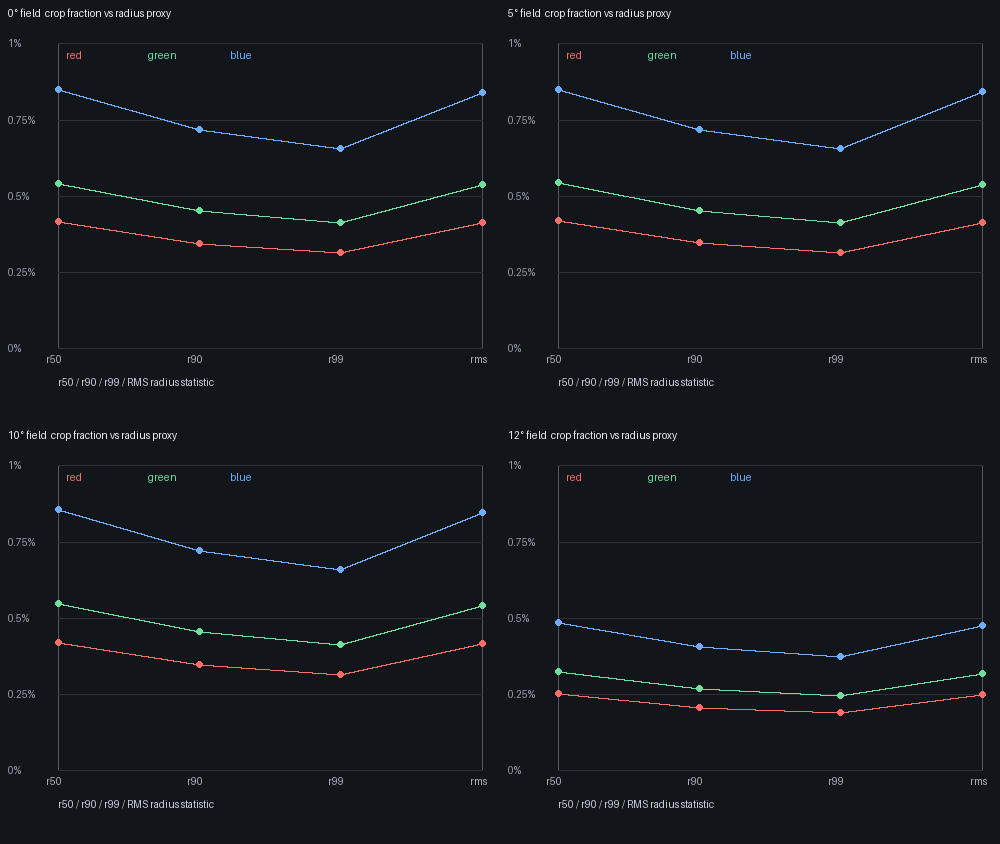
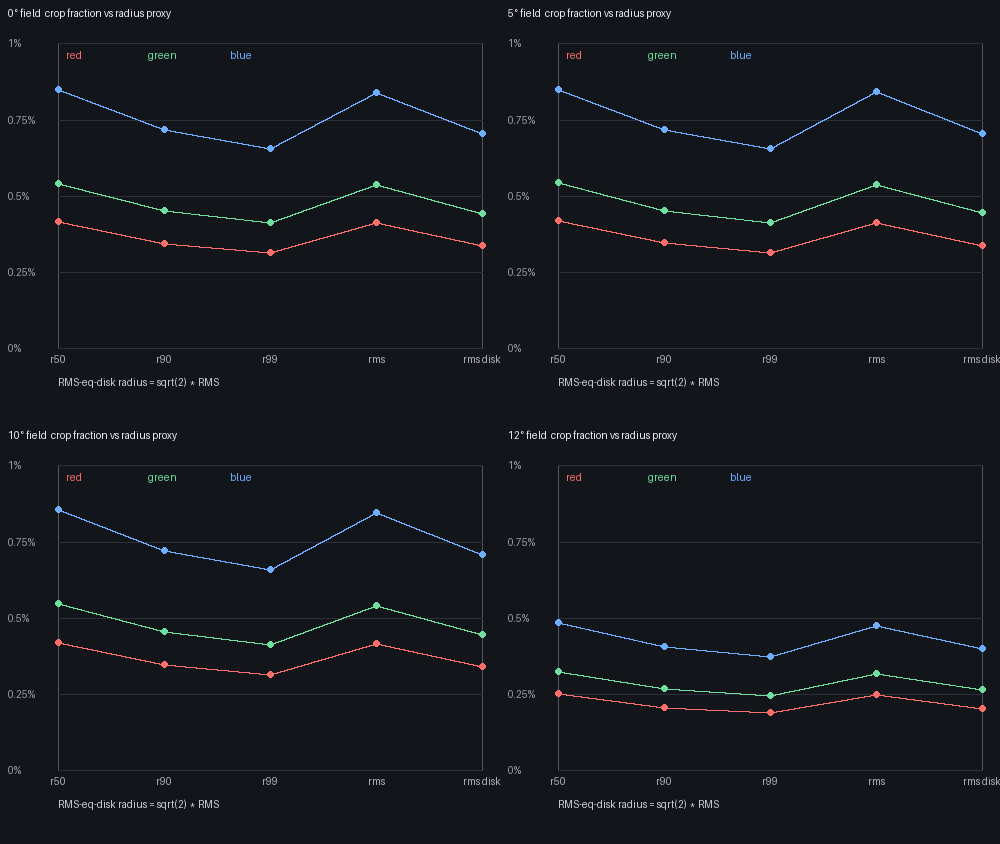
feat LensFlareLab compare RMS-equivalent scatter radius

diff --git a/tools/LensFlareLab/evaluate_scatter_radius_proxy_sensitivity.py b/tools/LensFlareLab/evaluate_scatter_radius_proxy_sensitivity.py
@@ -1,8 +1,8 @@
 """Measure how the cone-radius proxy changes prescription-scatter predictions.
 
-Reads the per-surface ray-trace CSV and compares r50, r90, r99 and RMS radii
-in Peterson Eq. 8. These are sensitivity cases, not four equally validated
-physical interpretations of the model parameter.
+Reads the per-surface ray-trace CSV and compares r50, r90, r99, RMS, and the
+equal-area disk radius derived from RMS in Peterson Eq. 8. These are sensitivity
+cases, not equally validated physical interpretations of the model parameter.
 """
 
 import argparse
@@ -18,7 +18,8 @@ from evaluate_harvey_spectral_scaling import RGB_BANDS
 from evaluate_prescription_spectral_surface_scatter import render_band
 
 
-PROXIES = (("r50", 2), ("r90", 3), ("r99", 4), ("rms", 5))
+PROXIES = (("r50", 2, 1.0), ("r90", 3, 1.0), ("r99", 4, 1.0),
+           ("rms", 5, 1.0), ("rms-eq-disk", 5, math.sqrt(2.0)))
 COLORS = ((255, 110, 104), (111, 223, 160), (110, 174, 255))
 
 
@@ -70,10 +71,10 @@ def evaluate(input_csv):
         ratio = case["wavelength_nm"] / case["reference_nm"]
         b_ref = case["b"] * ratio ** (4.0 + case["slope"])
         l_ref_mrad = case["l_mrad"] / ratio
-        for proxy, radius_index in PROXIES:
+        for proxy, radius_index, radius_scale in PROXIES:
             result = render_band(case, case["wavelength_nm"], case["slope"],
                 b_ref, l_ref_mrad, case["reference_nm"], case["transmission"],
-                case["na"], rho, pixel_area, radius_index)
+                case["na"], rho, pixel_area, radius_index, radius_scale)
             values.append({"field": field, "channel": channel,
                 "wavelength_nm": case["wavelength_nm"], "proxy": proxy,
                 "accepted": case["accepted"], "launched": case["launched"],
@@ -91,7 +92,7 @@ def make_chart(path, fields, rows):
     left, right, top, bottom = 58, panel_w - 18, 43, panel_h - 42
     ymax = max(r["crop_fraction"] * 100 for r in rows)
     ymax = max(.5, math.ceil(ymax * 2.0) / 2.0)
-    proxies = [name for name, _ in PROXIES]
+    proxies = [name for name, _, _ in PROXIES]
     for index, field in enumerate(fields):
         x0 = (index % 2) * panel_w
         y0 = (index // 2) * (panel_h + header)
@@ -118,15 +119,19 @@ def make_chart(path, fields, rows):
                              fill=COLORS[channel_index])
             if len(points) > 1:
                 draw.line(points, fill=COLORS[channel_index], width=2)
+        labels = {"rms-eq-disk": "rms disk"}
         for proxy_index, proxy in enumerate(proxies):
             x = plot[0] + int(proxy_index / (len(proxies) - 1) *
                               (plot[2] - plot[0]))
-            draw.text((x - 12, plot[3] + 5), proxy, fill=(170, 177, 188))
+            label = labels.get(proxy, proxy)
+            bounds = draw.textbbox((0, 0), label)
+            draw.text((x - (bounds[2] - bounds[0]) / 2, plot[3] + 5),
+                      label, fill=(170, 177, 188))
         for channel_index, (channel, _) in enumerate(RGB_BANDS):
             draw.text((plot[0] + 8 + channel_index * 82, plot[1] + 6),
                       channel, fill=COLORS[channel_index])
         draw.text((plot[0], y0 + panel_h - 14),
-                  "r50 / r90 / r99 / RMS radius statistic",
+                  "RMS-eq-disk radius = sqrt(2) * RMS",
                   fill=(200, 207, 218))
     path.parent.mkdir(parents=True, exist_ok=True)
     canvas.save(path)
@@ -146,6 +151,7 @@ def main():
     with args.csv.open("w", newline="", encoding="utf-8") as handle:
         writer = csv.writer(handle)
         writer.writerow(("field_deg", "channel", "wavelength_nm", "radius_proxy",
+            "radius_scale",
             "accepted_rays", "launched_rays", "entrance_radius_mm",
             "crop_fraction", "crop_percent", "delta_percent_vs_r90",
             "top_surface_index", "top_surface_crop_share_percent"))
@@ -157,7 +163,9 @@ def main():
             top_share = (row["surface_contributions"][top_index] /
                          max(row["crop_fraction"], 1e-300) * 100.0)
             writer.writerow((row["field"], row["channel"], row["wavelength_nm"],
-                row["proxy"], row["accepted"], row["launched"],
+                row["proxy"], next(scale for name, _, scale in PROXIES
+                                    if name == row["proxy"]),
+                row["accepted"], row["launched"],
                 f"{row['entrance_radius_mm']:.12g}",
                 f"{row['crop_fraction']:.12g}",
                 f"{row['crop_fraction']*100:.9g}",
@@ -175,7 +183,7 @@ def main():
                 for row in rows if row["field"] == field and row["channel"] == channel}
             print(f"field={field:g} {channel}: " + " ".join(
                 f"{proxy}={by_proxy[proxy]*100:.4f}%/surf{top_by_proxy[proxy]}"
-                for proxy, _ in PROXIES))
+                for proxy, _, _ in PROXIES))
     print(f"wrote {args.csv} and {args.image}; source grid={prototype['grid']}²")
     print("Radius-statistic cases are sensitivity bounds, not calibrated cone-radius choices.")
 

diff --git a/tools/LensFlareLab/evaluate_prescription_spectral_surface_scatter.py b/tools/LensFlareLab/evaluate_prescription_spectral_surface_scatter.py
@@ -32,19 +32,19 @@ def scale_parameters(wavelength_nm, reference_nm, slope, b_ref, l_ref_mrad):
 
 def render_band(case, wavelength_nm, slope, b_ref, l_ref_mrad,
                 reference_nm, transmission, na, rho, pixel_area_mm2,
-                radius_index=3):
+                radius_index=3, radius_scale=1.0):
     b, l_mrad = scale_parameters(wavelength_nm, reference_nm, slope,
                                  b_ref, l_ref_mrad)
     l_rad = l_mrad * 1e-3
     b0 = b * (100.0 * l_rad) ** slope
     rows = case["rows"]
-    entrance_radius = rows[0][radius_index]
+    entrance_radius = rows[0][radius_index] * radius_scale
     accepted_fraction = case["accepted"] / case["launched"]
     field_transmission = transmission * accepted_fraction
     image = np.zeros_like(rho)
     surface_contributions = []
     for row in rows:
-        a_j = row[radius_index]
+        a_j = row[radius_index] * radius_scale
         if not math.isfinite(a_j) or a_j <= 1e-8 or not math.isfinite(entrance_radius):
             surface_contributions.append(0.0)
             continue

diff --git a/tools/LensFlareLab/EVALUATION.md b/tools/LensFlareLab/EVALUATION.md
@@ -177,7 +177,7 @@ Across all four fields and all three wavelength bands, relative to r90:
 | RMS | +17.0% to +19.2% |
 
 The top-ranked surface remains index 7 for 0–10° and index 13 at 12° for all
-four radius choices and all three bands. Its share remains below 8.9%, so this
+four original radius choices and all three bands. Its share remains below 8.9%, so this
 ranking is weak and depends on the shared generic BSDF and the assumption that
 one scalar radius can stand in for each surface's actual pupil distribution.
 Changing only that radius statistic moves total crop estimates by up to about
@@ -186,6 +186,13 @@ measured or non-sequential surface-scatter model is needed before interpreting
 the absolute scatter estimate or using it to prioritize an individual surface.
 
 ![Crop-scatter sensitivity to r50, r90, r99, and RMS beam-radius proxies](examples/prescription-scatter-radius-proxy-sensitivity.png)
+
+An additional equal-area disk radius, `sqrt(2) × RMS`, changes the modeled crop
+by −2.13% to −1.29% relative to r90 across these cases. The conversion follows
+the second moment of a uniform disk; its closeness to r90 here is an observed
+property of this trace, not evidence that the true surface footprint is uniform.
+This fifth curve is therefore a geometry-based comparison case, not a calibrated
+replacement for measured pupil footprints or BSDF data.
 
 Exact band/field results and top-surface indices are in
 [`prescription-scatter-radius-proxy-sensitivity.csv`](examples/prescription-scatter-radius-proxy-sensitivity.csv).

diff --git a/tools/LensFlareLab/README.md b/tools/LensFlareLab/README.md
@@ -303,7 +303,8 @@ own r90 pupil-cone radii. It also plots each surface's share of sensor-crop
 scatter to expose whether the generic model predicts a dominant surface. Its
 visualizations and physical limits are documented in [EVALUATION.md](EVALUATION.md).
 `evaluate_scatter_radius_proxy_sensitivity.py` reuses that per-surface trace
-to compare crop predictions using r50, r90, r99, or RMS cone radii.
+to compare crop predictions using r50, r90, r99, RMS, and `sqrt(2) × RMS`
+equal-area disk cone radii.
 `evaluate_diffraction_supersampled_reference.py` compares both resamplers with
 an independent 4096² pupil FFT and 9× sensor-pixel integration reference.
 Pixel-phase evaluation requires Pillow; the supersampled reference requires
